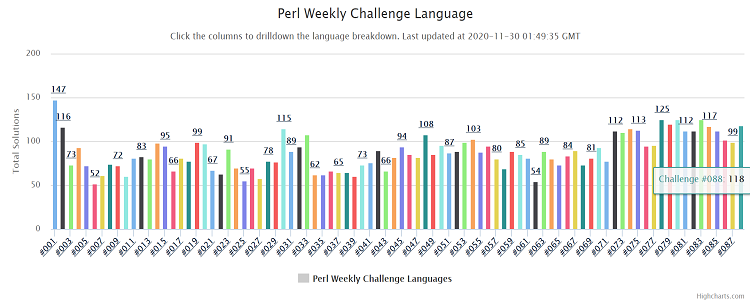
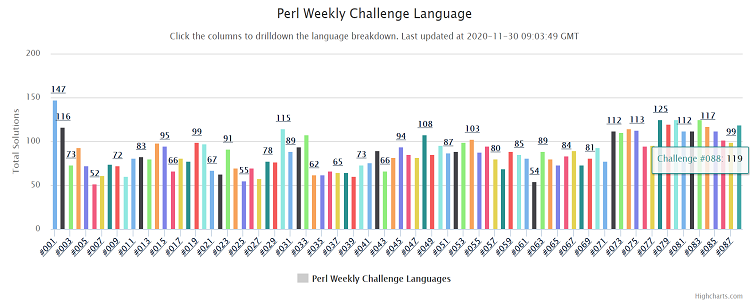
- Tidied up RECAPS 88.

diff --git a/docs/blog/recap-challenge-088/index.html b/docs/blog/recap-challenge-088/index.html
@@ -234,11 +234,12 @@
 <h4 id="1-arne-sommer">1) Arne Sommer</h4>
 <h4 id="2-jaldhar-h-vyas">2) Jaldhar H. Vyas</h4>
 <h4 id="3-laurent-rosenfeld">3) Laurent Rosenfeld</h4>
-<h4 id="4-roger-bell_west">4) Roger Bell_West</h4>
+<h4 id="4-myoungjin-jeon">4) Myoungjin Jeon</h4>
+<h4 id="5-roger-bell_west">5) Roger Bell_West</h4>
 <br>
 <h2 id="CONTRIBUTIONSTATS">CONTRIBUTION STATS</h2>
 <hr>
-<p>The total contributions in the week is <code>118</code>.Well done <strong>Team PWC</strong>. I would also like to thanks <code>Raku</code> contributors for catching up.</p>
+<p>The total contributions in the week is <code>119</code>.Well done <strong>Team PWC</strong>. I would also like to thanks <code>Raku</code> contributors for catching up.</p>
 <p><img src="/images/blog/languages-breakdown-88.png" alt="Language Breakdown"></p>
 <br>
 <h2 id="GUESTS">GUESTS</h2>
@@ -527,7 +528,8 @@
 <p>[<a href="https://github.com/manwar/perlweeklychallenge-club/blob/master/challenge-088/jeongoon/perl/ch-1.pl"><strong>PERL #1</strong></a>]
 [<a href="https://github.com/manwar/perlweeklychallenge-club/blob/master/challenge-088/jeongoon/perl/ch-2.pl"><strong>PERL #2</strong></a>]
 [<a href="https://github.com/manwar/perlweeklychallenge-club/blob/master/challenge-088/jeongoon/raku/ch-1.raku"><strong>RAKU #1</strong></a>]
-[<a href="https://github.com/manwar/perlweeklychallenge-club/blob/master/challenge-088/jeongoon/raku/ch-2.raku"><strong>RAKU #2</strong></a>]</p>
+[<a href="https://github.com/manwar/perlweeklychallenge-club/blob/master/challenge-088/jeongoon/raku/ch-2.raku"><strong>RAKU #2</strong></a>]
+[<a href="https://dev.to/jeongoon/weekly-challenge-088-task-1-perl-raku-and-more-1nlf"><strong>BLOG #1</strong></a>]</p>
 <hr>
 <h3 id="roger-bell_west">Roger Bell_West</h3>
 <p><img src="/images/team/user.jpg" alt="Roger Bell_West"></p>

diff --git a/content/blog/recap-challenge-088.md b/content/blog/recap-challenge-088.md
@@ -57,14 +57,15 @@ Following members shared solutions to both tasks in `Perl` and `Raku` as well as
 #### 1) Arne Sommer
 #### 2) Jaldhar H. Vyas
 #### 3) Laurent Rosenfeld
-#### 4) Roger Bell_West
+#### 4) Myoungjin Jeon
+#### 5) Roger Bell_West
 
 <br>
 
 ## CONTRIBUTION STATS {#CONTRIBUTIONSTATS}
 ***
 
-The total contributions in the week is `118`.Well done **Team PWC**. I would also like to thanks `Raku` contributors for catching up.
+The total contributions in the week is `119`.Well done **Team PWC**. I would also like to thanks `Raku` contributors for catching up.
 
 ![Language Breakdown](/images/blog/languages-breakdown-88.png)
 
@@ -494,6 +495,7 @@ Please checkout the technical class of **Andrew**'s **Raku** Knowledge. You can 
 [[**PERL #2**](https://github.com/manwar/perlweeklychallenge-club/blob/master/challenge-088/jeongoon/perl/ch-2.pl)]
 [[**RAKU #1**](https://github.com/manwar/perlweeklychallenge-club/blob/master/challenge-088/jeongoon/raku/ch-1.raku)]
 [[**RAKU #2**](https://github.com/manwar/perlweeklychallenge-club/blob/master/challenge-088/jeongoon/raku/ch-2.raku)]
+[[**BLOG #1**](https://dev.to/jeongoon/weekly-challenge-088-task-1-perl-raku-and-more-1nlf)]
 
 ***
 
